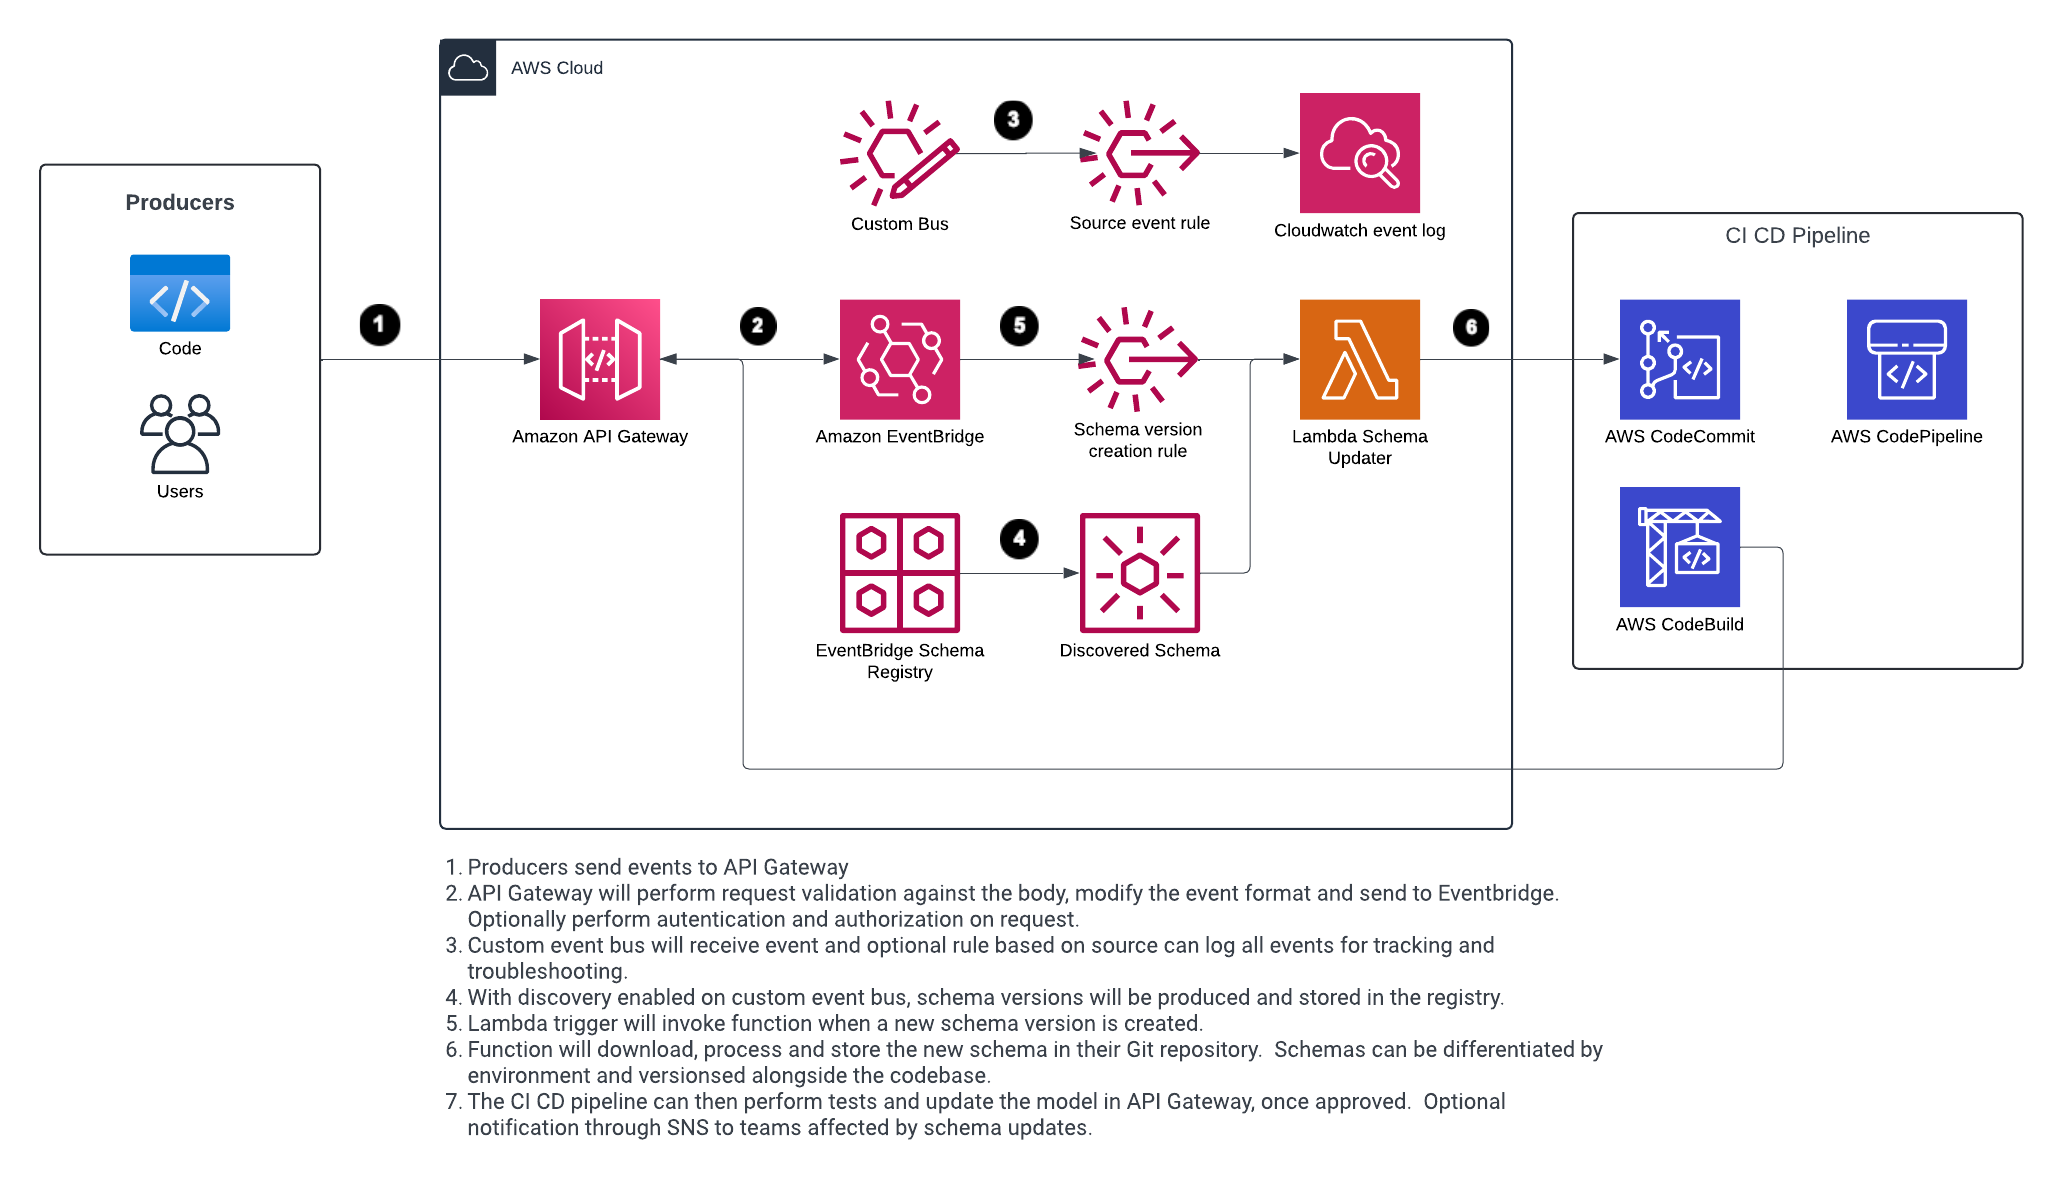
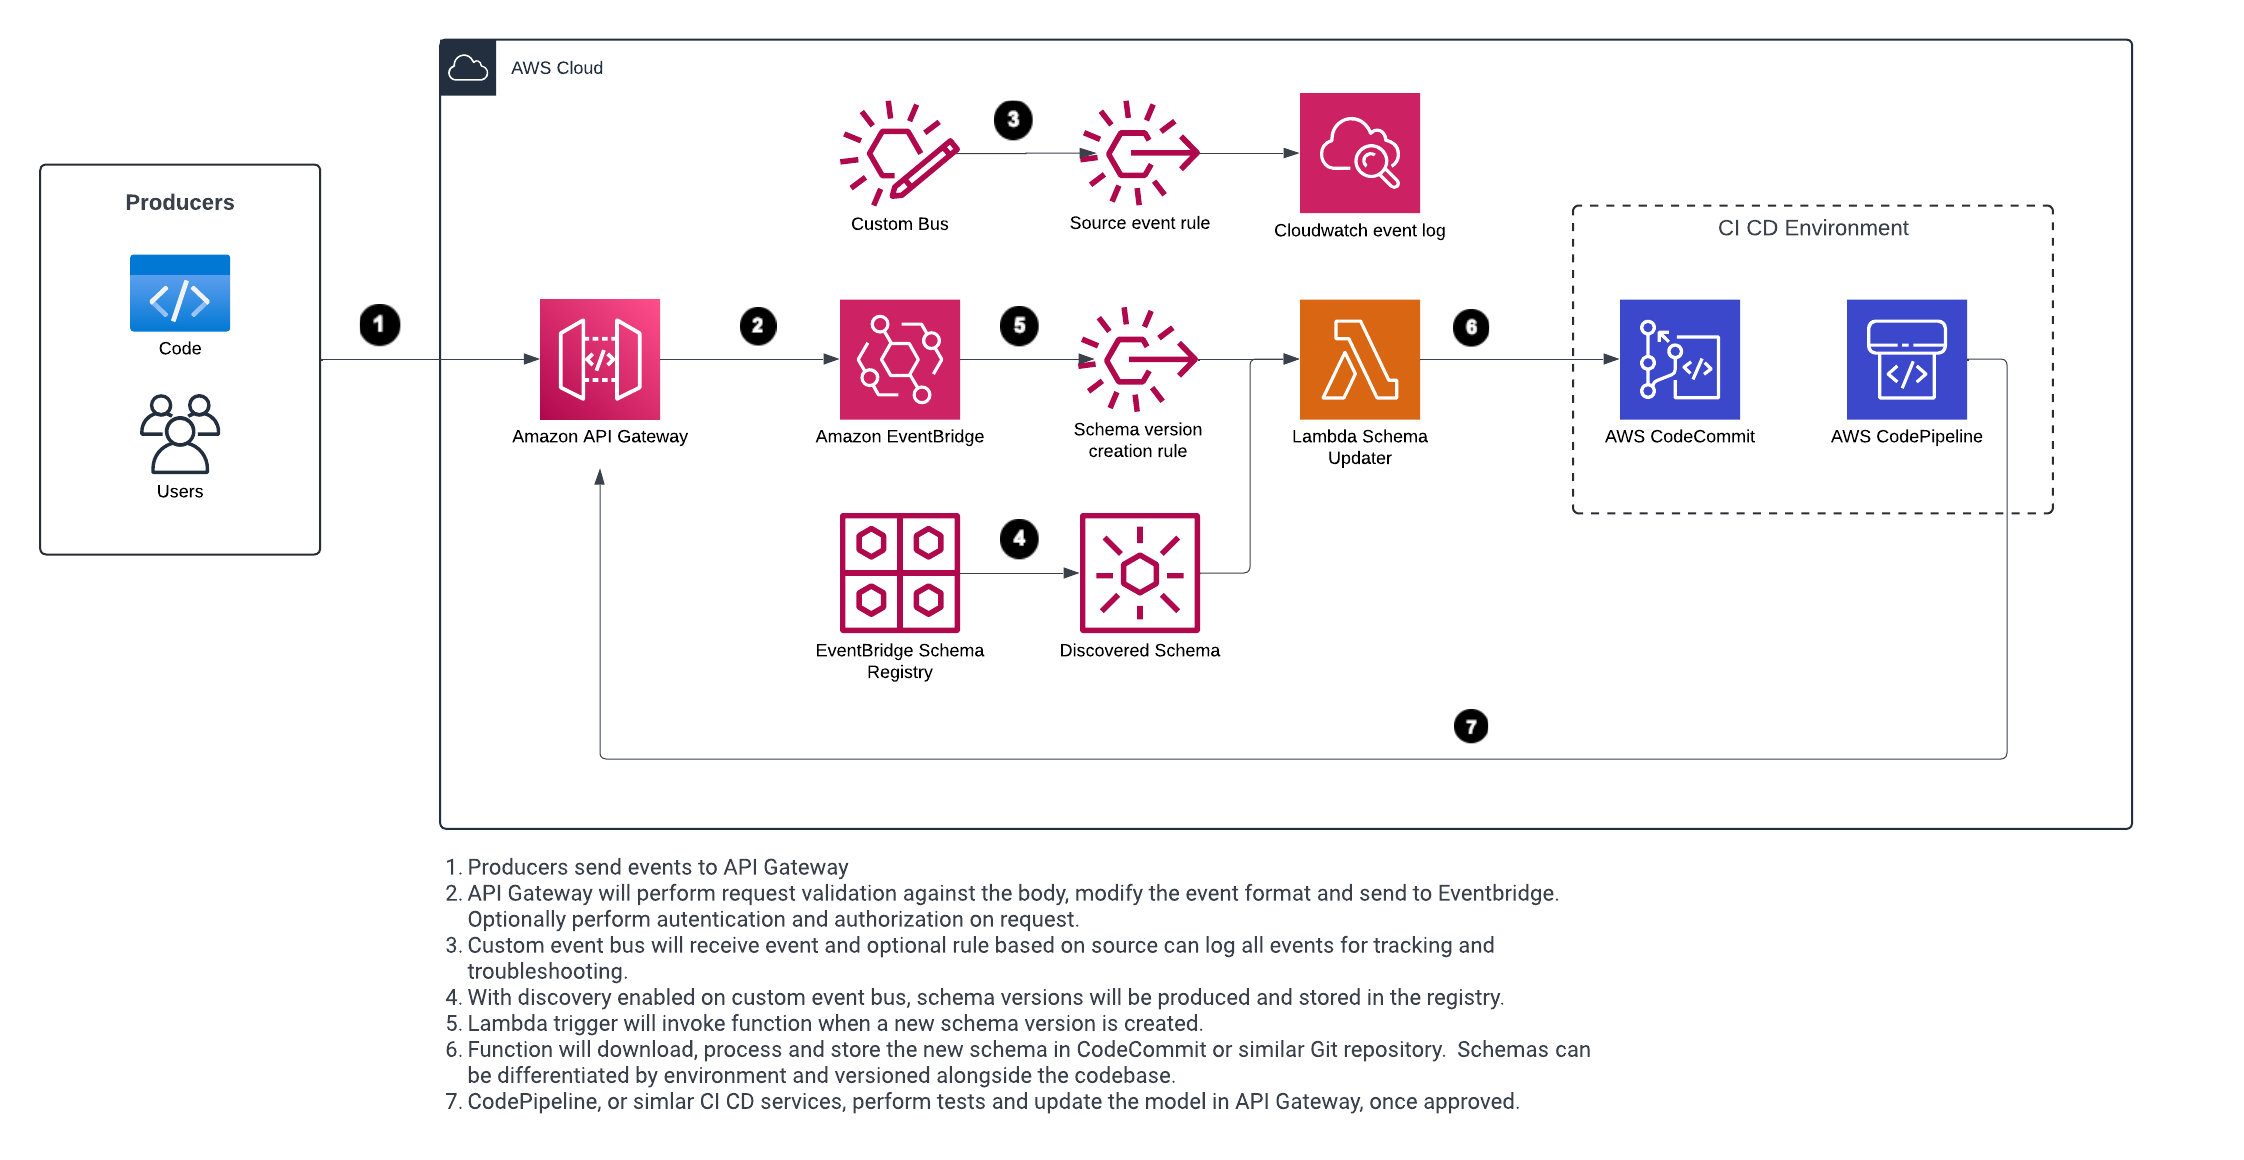
updates after TFC member testing and feedback

diff --git a/apigw-eventbridge-schema-validation/README.md b/apigw-eventbridge-schema-validation/README.md
@@ -1,11 +1,13 @@
-# Automating the schema lifecycle with EventBridge and API Gateway
+# Automating event validation with EventBridge and API Gateway
 
-In event driven architectures, validation of events can be challenging to put into practice.  Speed of development requires a balance with governance.  You can validate events on the consumer and producer side to ensure all entities meet the agreed upon specifications.  [Amazon Eventbridge](https://aws.amazon.com/eventbridge/) is a serverless event bus that can perform discovery, versioning and consumption of event schemas.  Consumers can also download code bindings to speed up development.  Schema discovery provides the freedom for developers to put events on the bus and have schemas created on-demand.  You have several options on the consumer side, but what about validation for the producer side of the equation?  We'll focus on schema notification, modification, promotion and enforcement on the producer side in this solution.  
+Validation of events is a simple concept, but putting it into practice in an enterprise environment can be challenging. Generating, managing and applying schemas across multiple environments and teams requires coordination and automation.  Finding the right balance of speed and governance can be tricky.  By incrementally increasing governance at the right stages of the event lifecycle and using AWS services to automate schema generation and validation, you can enable developers to move quickly while applying the right level of governance.  This solution will focus on automating schema creation, modification, promotion and enforcement.
+
+[Amazon Eventbridge](https://aws.amazon.com/eventbridge/) is a serverless event bus that can perform discovery and versioning of event schemas.  Event consumers can download schemas and code bindings to validate events and speed up development.  This provides the freedom for developers to create events without having to worry about managing schemas. Discovered schemas serve their purpose for consumer validation of events, but what about validating events before they are routed downstream to consumers?  Schema validation is not currently a native feature of Eventbridge; however, API Gateway models can be used to validate requests.  By placing API Gateway in front of the event bus, you can validate requests as well as implement caching, authorization, rate limiting and other features of the service.  In this solution you'll learn through examples how to automate schema notification, modification, promotion and enforcement.  
 
 ![Architecture flow of producer and consumer](./assets/Producer_Consumer.png)
 <p style="text-align:center; font-style: italic"> Figure 1: Producers and consumers with schema discovery </p>
 
-Before we dive into the solution, let's discuss three stages of event metadata evolution.  You can find a reference to these stages in a talk by Sam Dengler during the [:goto conference](https://youtu.be/-Pv_kYflEEg?si=a7CDRdnGPtSH1agk&t=808).  As events evolve from inception to production, its important consumers can discover and understand event structure and how it changes over time.  Events go through multiple iterations of testing and refinement, similar to how an application evolves toward production.  
+Before we dive into the solution, let's discuss three stages of event evolution.  You can find a reference to these stages in a [talk by Sam Dengler](https://youtu.be/-Pv_kYflEEg?si=a7CDRdnGPtSH1agk&t=808).  As events evolve from inception to production, its important consumers can discover and understand event structure and how it changes over time.  Events go through multiple iterations of testing and refinement, similar to how an application evolves toward production.  
 
 Events start as raw information, a skeleton of what the event will eventually look like.  This allows developers to rapidly build, test and refine event structures without any dependence on the event.  The second stage is where events are exposed to consumers within the bounded context.  This enables consumers to test events within a limited scope, ensuring they meet requirements within their context.  The third stage is where events are expanded to include other business and technical related metadata.  This may involve adding required fields and any additional refinement required by consumers to effectively process the event across many bounded contexts or business domains.
 
@@ -62,7 +64,7 @@ In the next stage, the event is refined within the surgery team's bounded contex
 
 ```
 
-In the last stage, you bring in other bounded contexts and consumers.  Here we might need to know if and what types of therapy are required and where those will occur.  We may have follow-up appointments and reminder details.  
+In the last stage, you bring in other bounded contexts and consumers.  Here you might need to know if and what types of therapy are required and where those will occur.  We may have follow-up appointments and reminder details.  
 
 **Stage 3**
 ```json
@@ -98,7 +100,7 @@ In the last stage, you bring in other bounded contexts and consumers.  Here we m
 }
 
 ```
-You now understand how events evolve, but how do you apply governance to events through these stages? The next section covers two solutions using schema discovery to provide automated validation to events.  
+Next, you'll apply governance to events through each of these stages. The next section covers two solutions using schema discovery to provide automated validation to events.  
 
 # Architecture and Implementation
 
@@ -114,7 +116,7 @@ Another option is to control these changes through your CI CD pipeline.  The sch
 Let's review the implementation through each stage. 
 
 ### Stage 1
-This is the stage where raw events are being produced and we have no consumers dependent on the events.  Here, the development team is producing events at will through Eventbridge with no model validation applied.  The schema updater can be toggled off.  Schemas will be discovered and versioned, but not applied to requests. 
+This is the stage where raw events are being produced and there are no consumers dependent on the events.  Here, the development team is producing events at will through Eventbridge with no model validation applied.  The schema updater is toggled off.  Schemas will be discovered and versioned, but not applied to requests. 
 
 ### Stage 2
 In this stage, events are starting to build a solid domain structure and are tested within a bounded context.  Your team has the option of applying request validation when it's appropriate.  Since there are consumers within the same bounded context, you can start enforcing validation, balancing it with active development.  The decision to enforce request validation should be based on testing and feedback from the consumers in this stage.  This is where the CI CD approach can provide additional safeguards and oversight because you can base your schema updates on successful iterations of test runs in your pipeline.   
@@ -154,8 +156,8 @@ Important: this application uses various AWS services and there are costs associ
 1. During the prompts:
     * Enter a stack name
     * Enter the desired AWS Region
-    * Allow SAM CLI to create IAM roles with the required permissions.
     * For the parameters, you can accept the defaults. 
+   *  Allow SAM CLI to create IAM roles with the required permissions.
 
 Once you have run `sam deploy --guided` mode once and saved arguments to a configuration file (samconfig.toml), you can use `sam deploy` in future to use these defaults.  
 
@@ -211,7 +213,8 @@ Once the first schema version is created, you can move on to the next step.  To 
 ```
 sam deploy --parameter-overrides SchemaEnforcementEnabledOrDisabled=ENABLED
 ```
-With the rule enabled, run the following command to send another event to the custom event bus.  
+<p id="stage2-cmd"> </p> With the rule enabled, run the following command to send another event to the custom event bus. 
+
 ```
 curl --location --request POST '<YOUR API URL>' \
 --header 'Content-Type: application/json' \
@@ -294,15 +297,17 @@ Required objects and properties have been removed, which will be caught by the r
 {"message": "Invalid request body"}%
 ```
 
-Run the first request from stage two with all required fields and the validator will pass the event through to Eventbridge.  With the trigger enabled, any new schema versions created will trigger an update to the API Gateway model.  To toggle this off, you can disable the trigger: 
+Run the [first request from stage two](#stage2-cmd) again with all required fields and the validator will pass the event through to Eventbridge.  With the trigger enabled, any new schema versions created will trigger an update to the API Gateway model.  
+
+If you want to optionally disable schema updates at any point, run the command below.  This disables the rule in Eventbridge that triggers the Lambda function to update the API Gateway model with a new schema.  This is not required for the next step.  
 
 ```
 sam deploy --parameter-overrides SchemaEnforcementEnabledOrDisabled=DISABLED
 ```
 
-This feature can be leveraged across environments and API deployments to quickly enable and disable schema validation at the request level.  No additional code is required to perform the schema validation.  To scale validators to additional resources and methods, add request validator definitions to the SAM template under the appropriate path(s).
+The schema update feature can be leveraged across environments and API deployments to quickly enable and disable schema validation at the request level.  No additional code is required to perform the schema validation.  To scale validators to additional resources and methods, add request validator definitions to the SAM template under the appropriate path(s).
 
-To test the third stage, send an event with broader business context, which will generate another schema version.
+To test the third stage, send an event with a broader business context, which will generate another schema version.  If the schema update rule and trigger are still enabled, the API Gateway model will be updated with the latest schema from this event.
 
 ```
 curl --location --request POST '<YOUR API URL>' \
